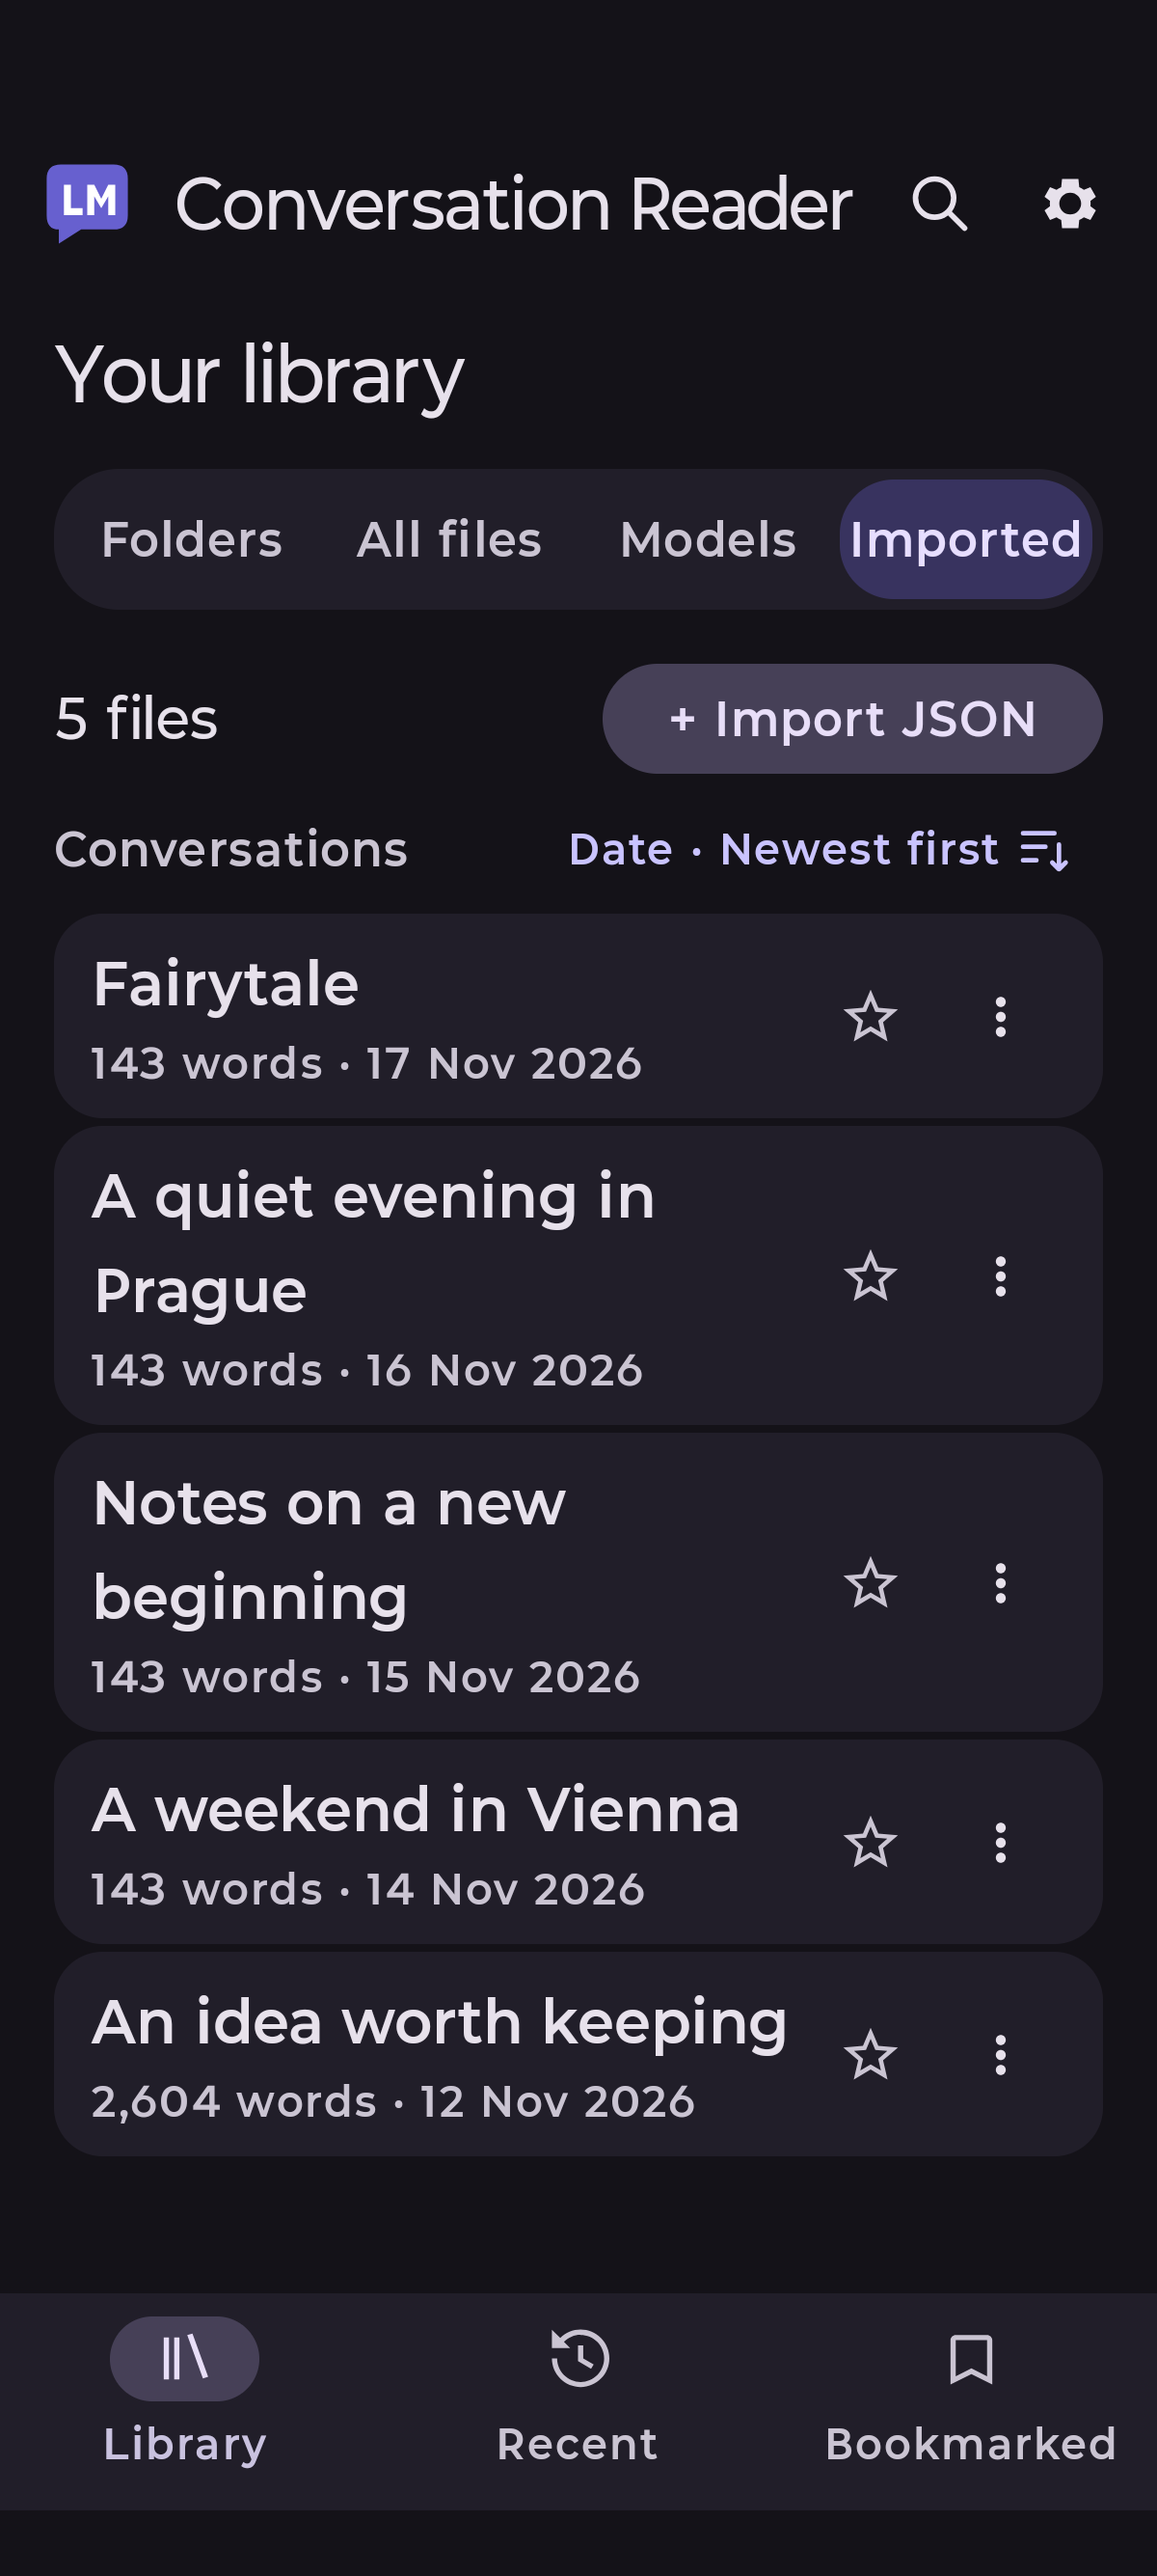
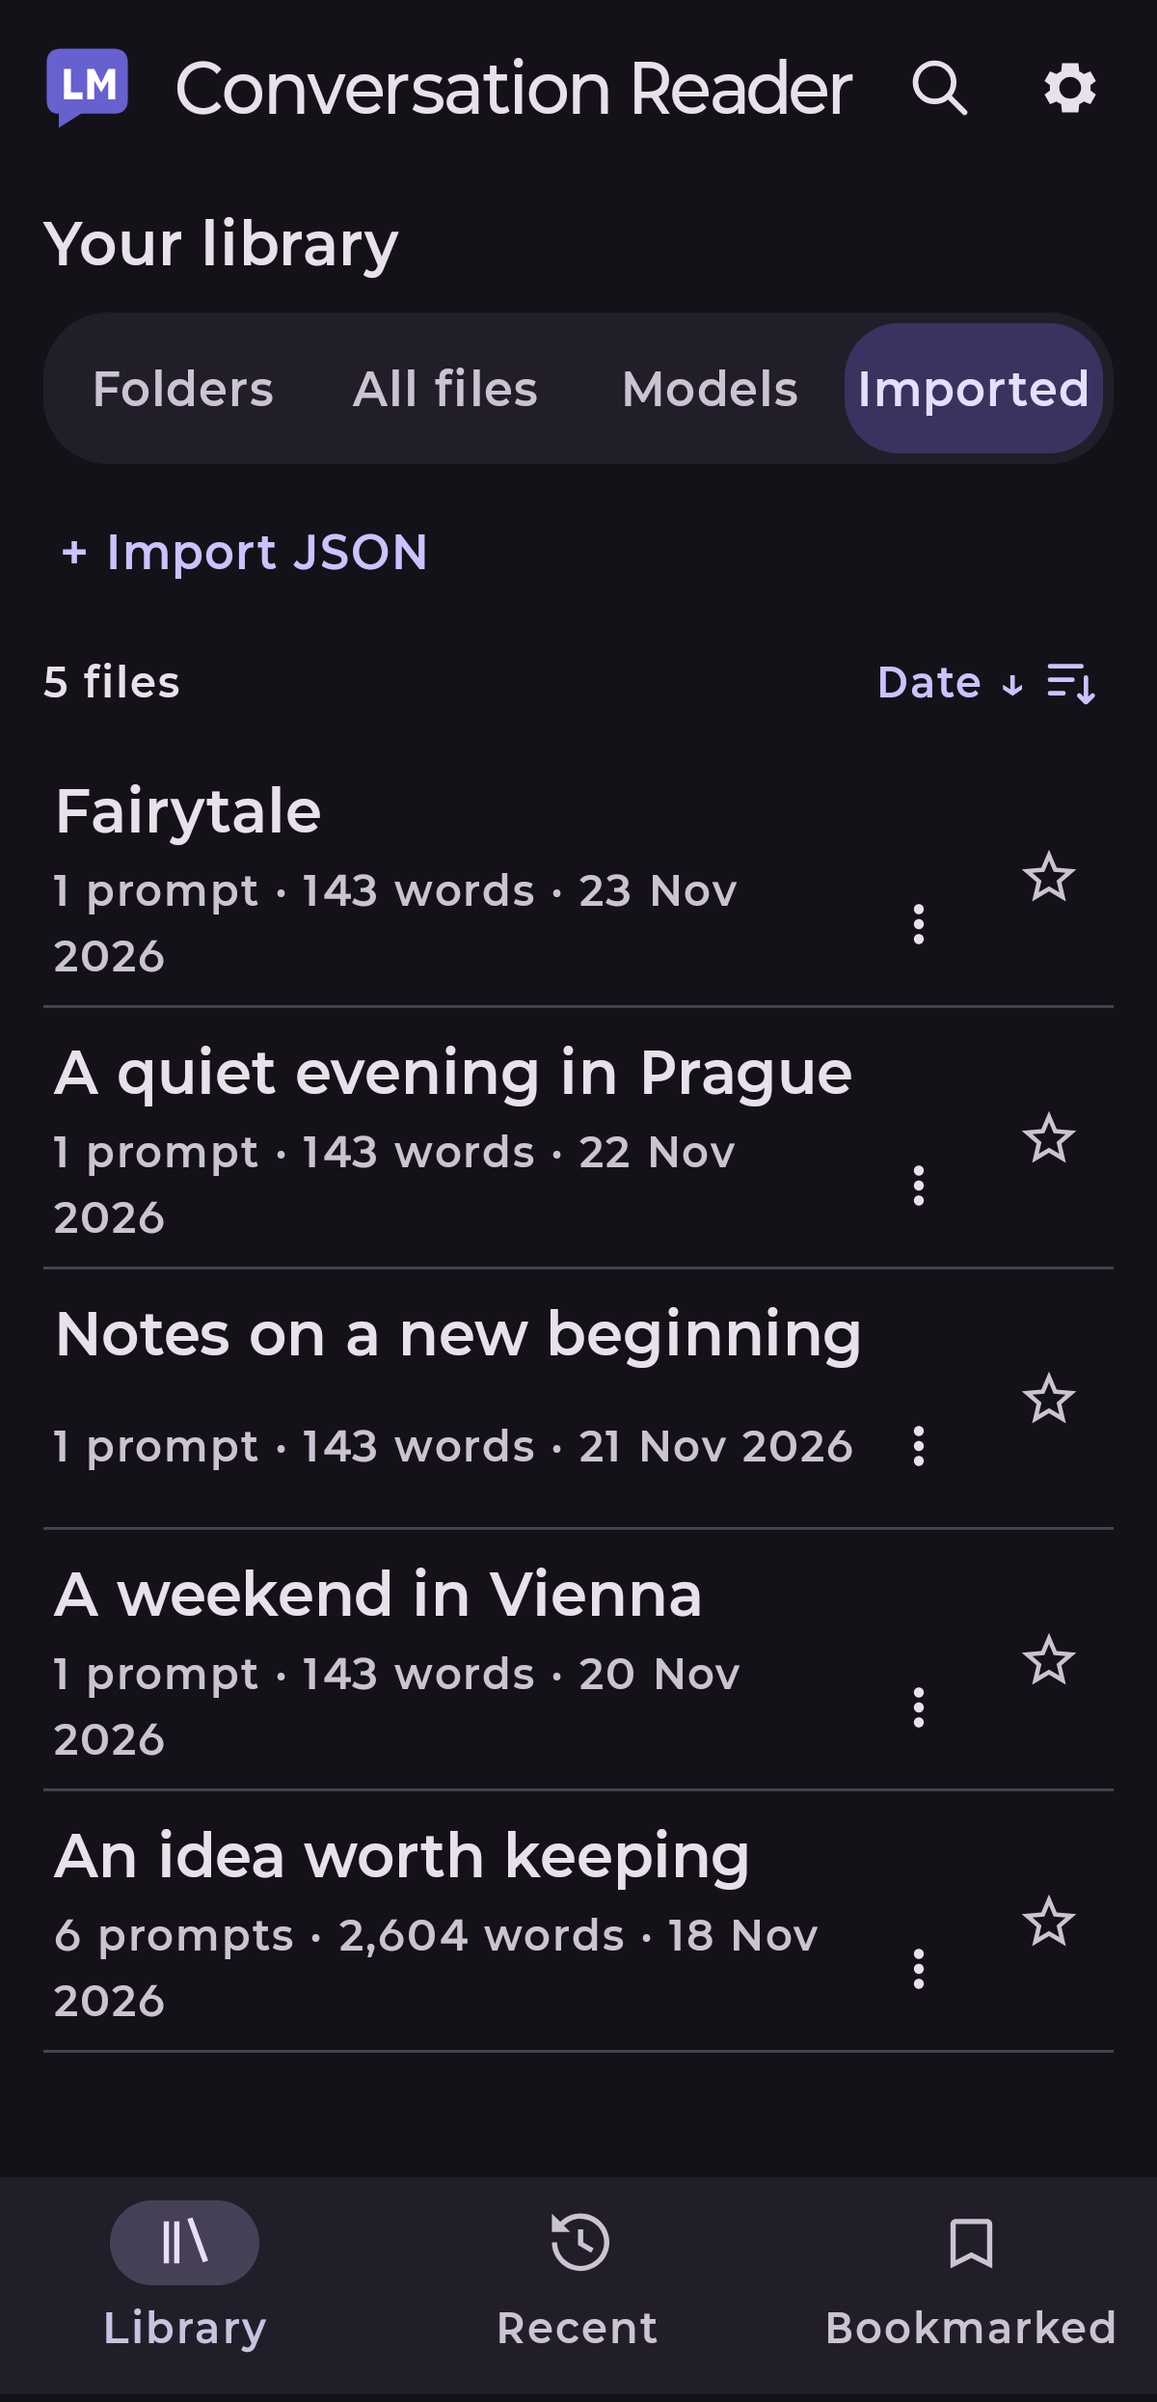
Refresh README screenshot gallery

diff --git a/README.md b/README.md
@@ -16,12 +16,20 @@ Compatible with **LM Studio 0.4.28 (Build 2)** conversation JSON files.
   <tr>
     <th>Your library</th>
     <th>Time to read</th>
-    <th>Make it comfortable</th>
+    <th>Prompt overview</th>
   </tr>
   <tr>
-    <td><img src="docs/screenshots/library.png" width="260" alt="Conversation library with visible browsing views, tonal conversation rows and bottom navigation"></td>
+    <td><img src="docs/screenshots/library.png" width="260" alt="Conversation library with prompt and word counts and bottom navigation"></td>
     <td><img src="docs/screenshots/reading.png" width="260" alt="A formatted conversation with prompt, Markdown reply and reading navigation"></td>
-    <td><img src="docs/screenshots/settings.png" width="260" alt="Grouped settings for linked folders, prompt navigation and typography"></td>
+    <td><img src="docs/screenshots/prompts.png" width="260" alt="Collapsed prompt preview with reply word count and headings"></td>
+  </tr>
+</table>
+
+<table>
+  <tr><th>Sort your library</th><th>Reading preferences</th></tr>
+  <tr>
+    <td><img src="docs/screenshots/sorting.png" width="260" alt="Open sorting options for date, name and length with ascending and descending controls"></td>
+    <td><img src="docs/screenshots/preferences.png" width="260" alt="Reading preferences for text size, font and theme"></td>
   </tr>
 </table>
 
